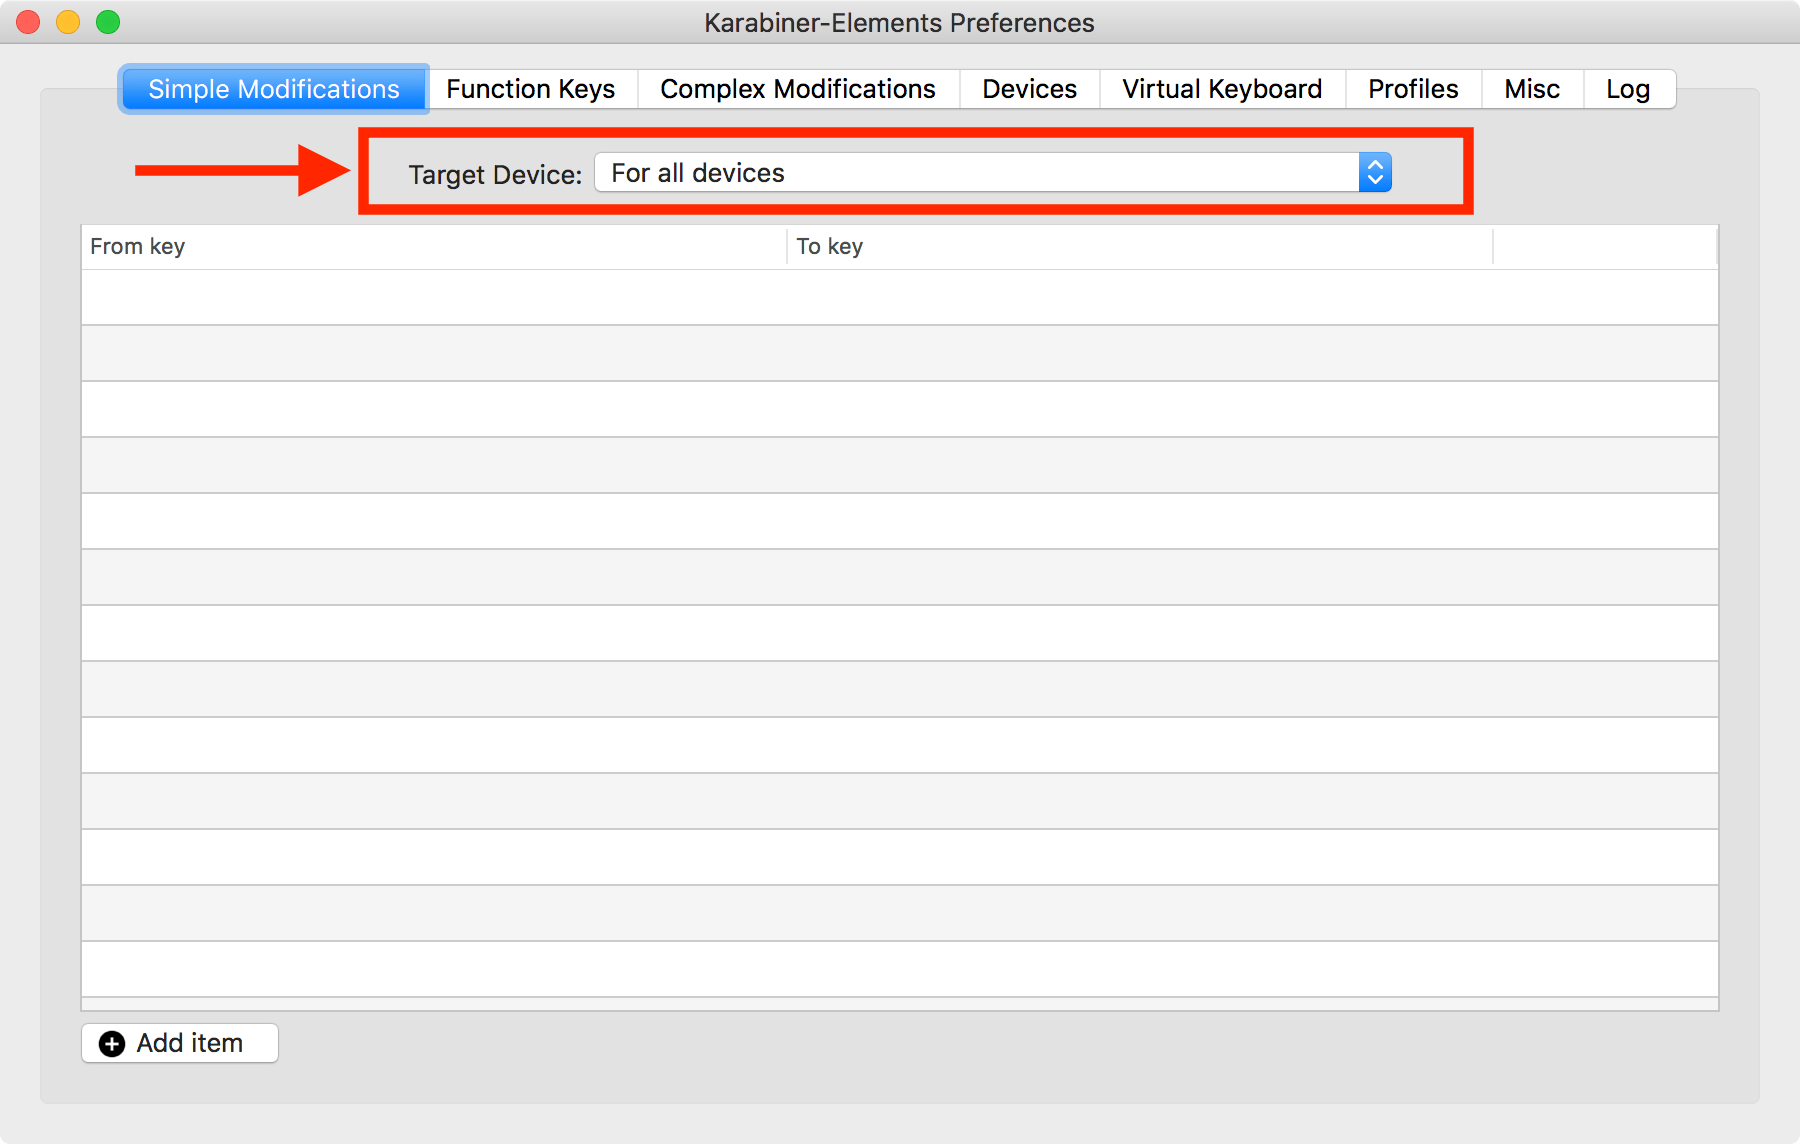
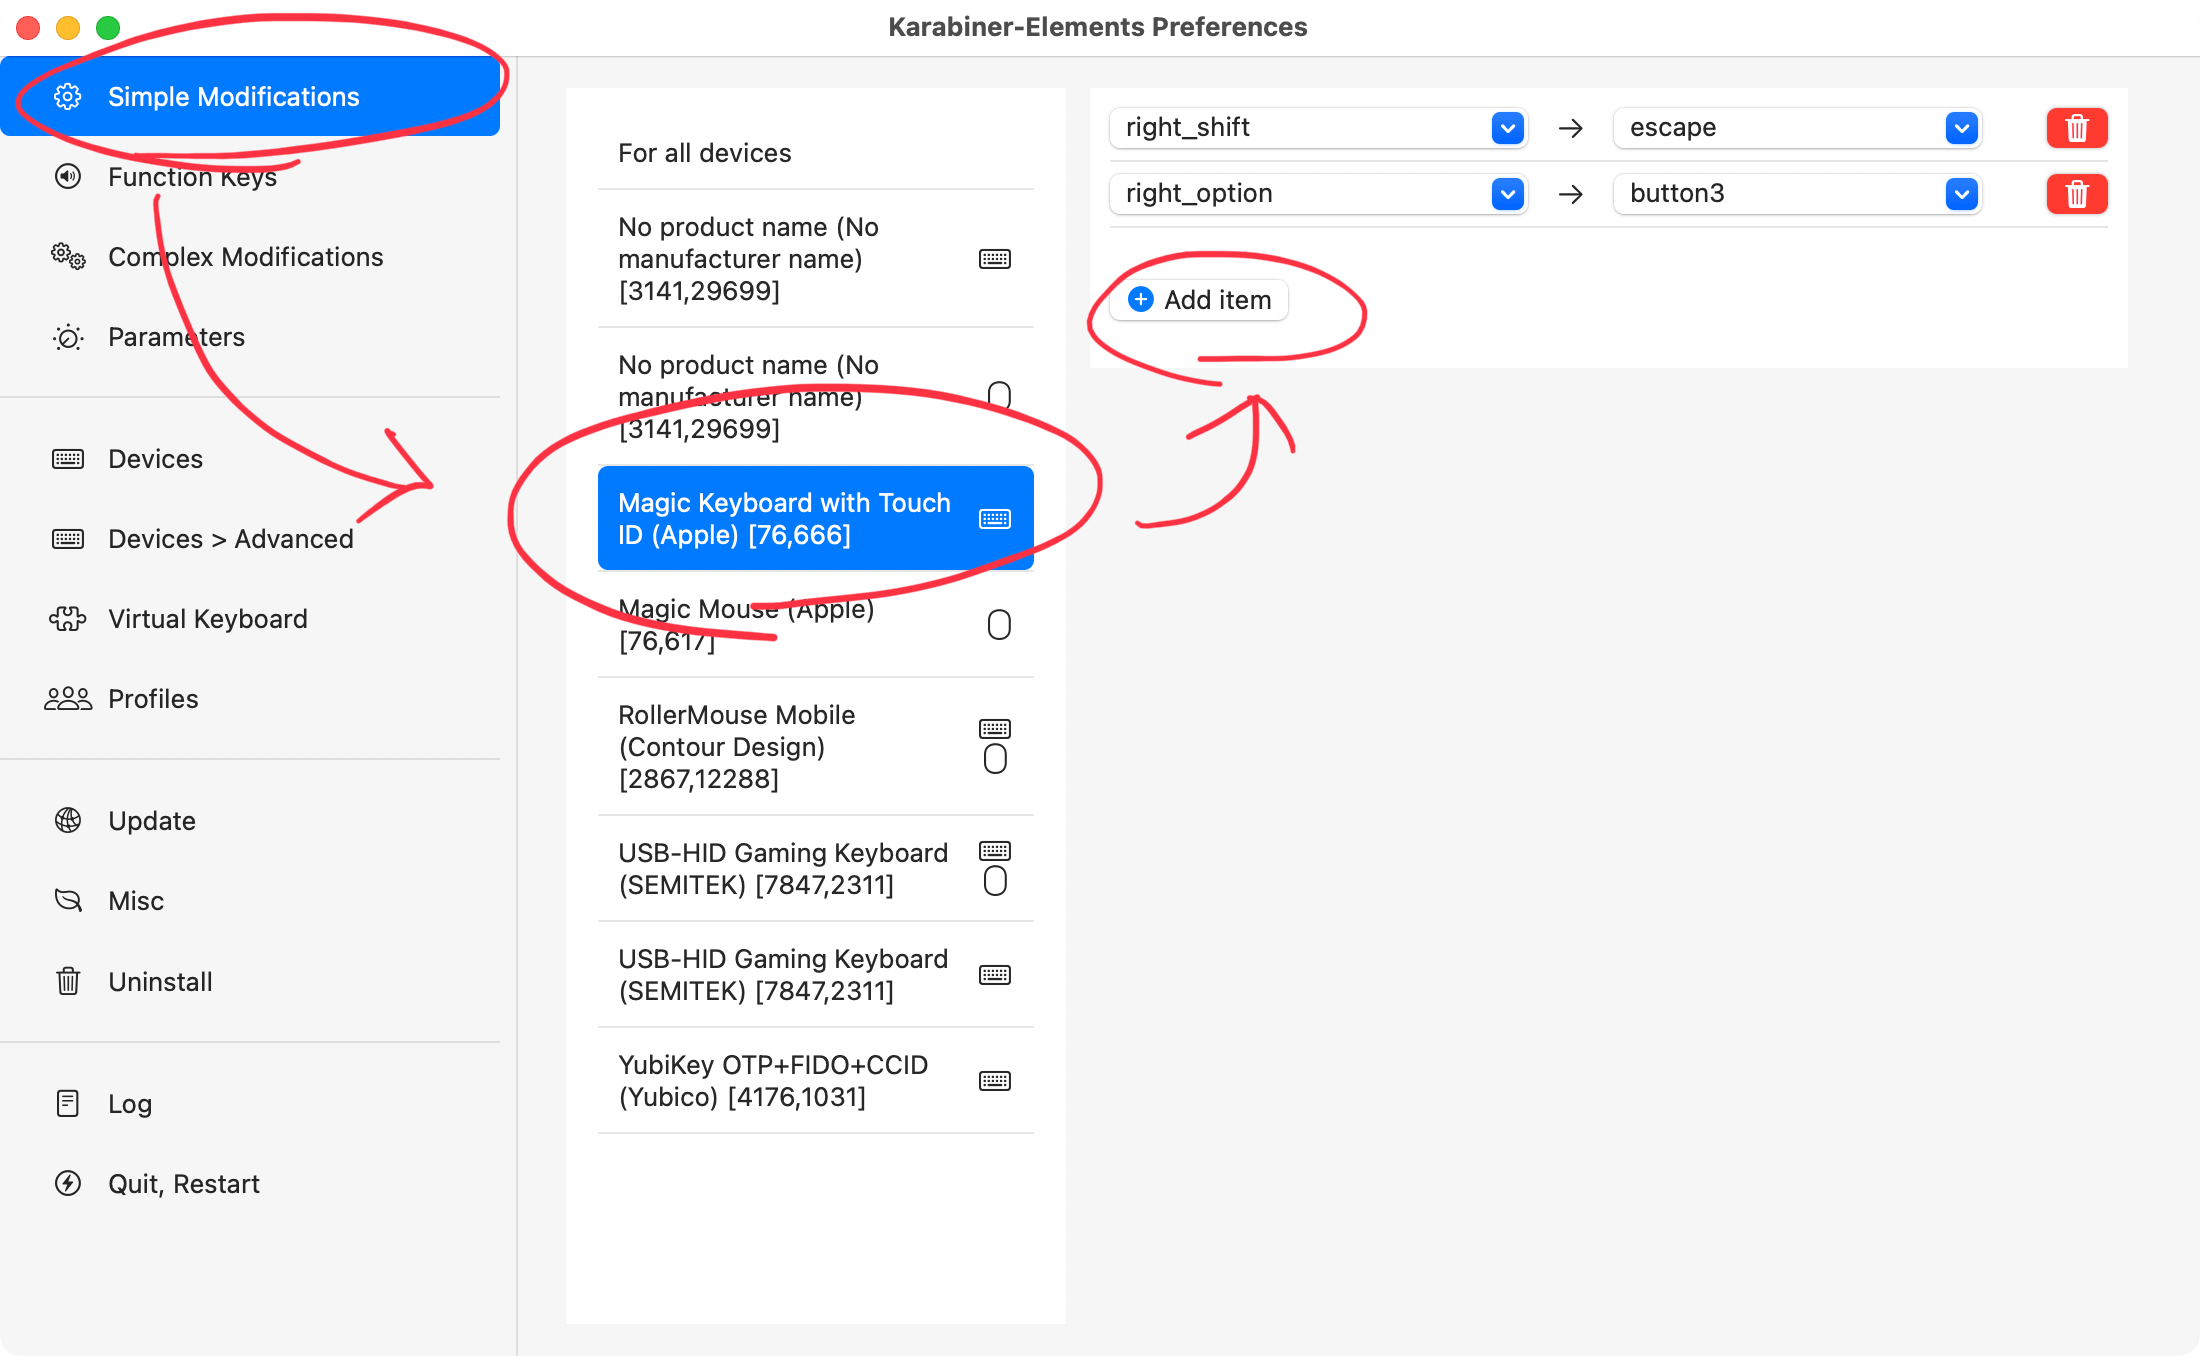
Update configure-simple-modifications

diff --git a/sites/karabiner-elements/content/en/docs/manual/configuration/configure-simple-modifications/index.md b/sites/karabiner-elements/content/en/docs/manual/configuration/configure-simple-modifications/index.md
@@ -7,9 +7,9 @@ You can change a key to another key on **Simple Modifications** tab.
 
 1.  Choose target device, then press Add item button.
     {{< local-image src="images/karabiner-elements-simple-modifications-1@2x.png" >}}
+2.  Select keys.<br/>
+    (Tips: The following example changes the right option key to mouse button 3)
     {{< local-image src="images/karabiner-elements-simple-modifications-2@2x.png" >}}
-2.  Select **From key** and **To key**.
-    {{< local-image src="images/karabiner-elements-simple-modifications-3@2x.png" >}}
 3.  Confirm the result using [Karabiner-EventViewer](/docs/manual/operation/eventviewer/).
 
 {{% alert title="Tip" color="primary" %}}
